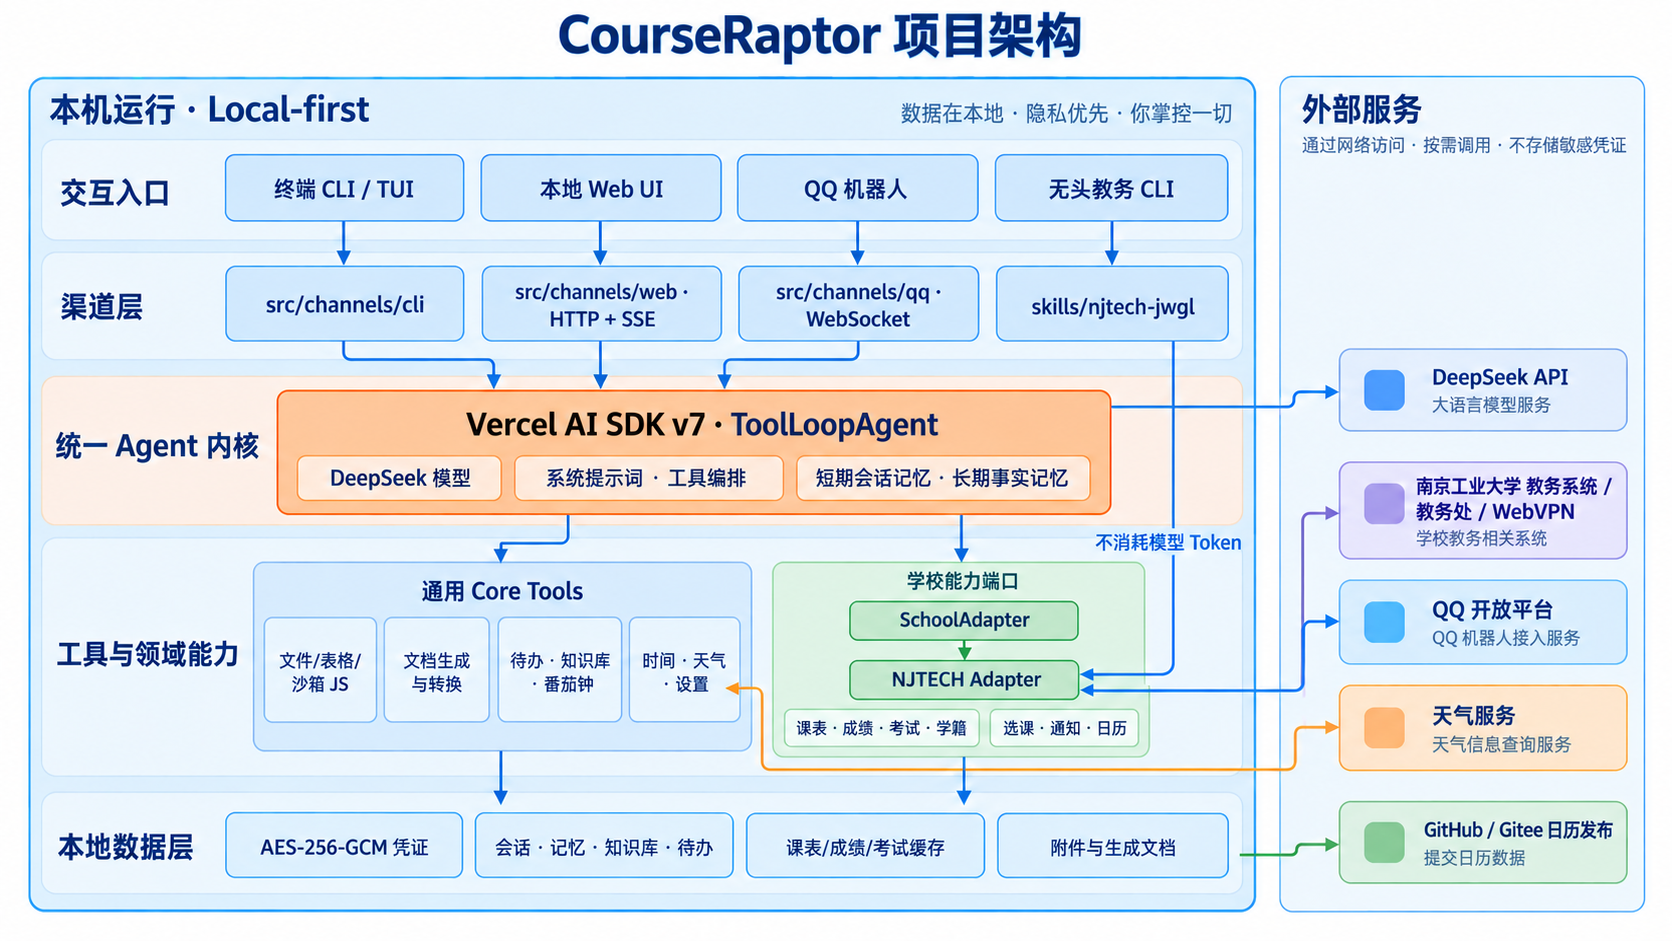
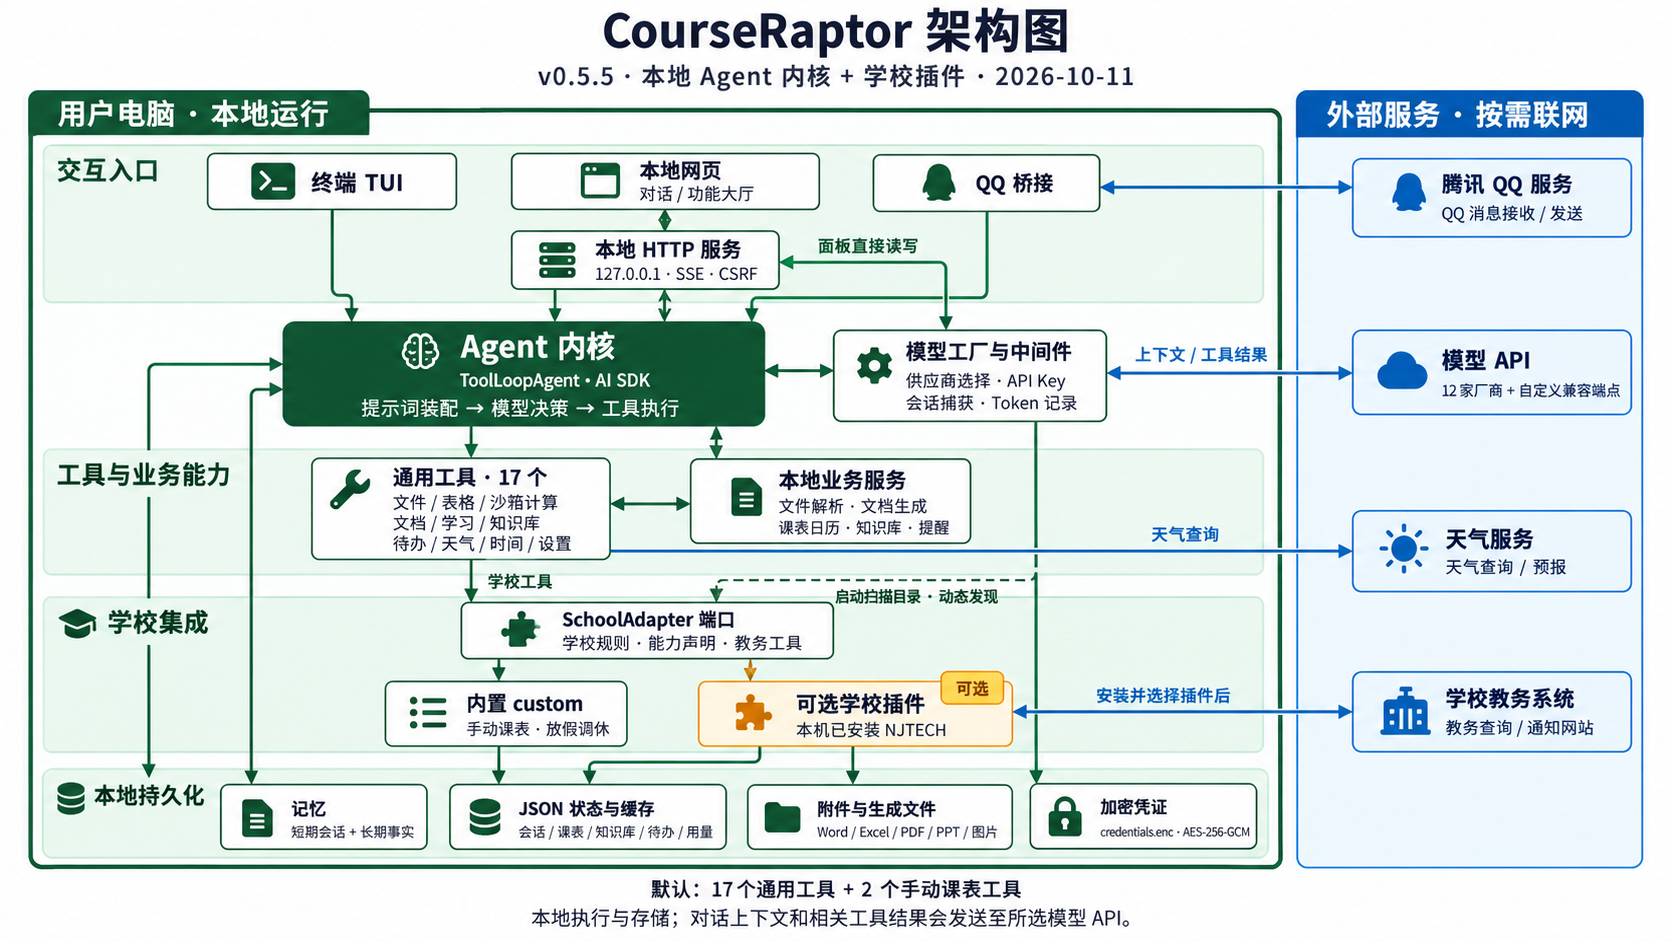
docs(readme): 架构图更换为 v0.5.5 新版——本地 Agent 内核 + 学校插件
- 白底版直接替换为 2026-10-11 新图（1672×941，与旧图同尺寸）
- 深底版由新图反相 + 色相旋转 180° 生成，保持绿/蓝主题色与黑底
- alt 同步新图口径：交互入口 / Agent 内核 / 工具与业务能力 / 学校集成 / 本地持久化，外部服务按需联网

diff --git a/README.md b/README.md
@@ -179,7 +179,7 @@ raptor             # 启动；项目内也可 npm run dev
   <!-- GitHub 按用户主题自动换图：暗色模式看深底版，浅色模式看白底版 -->
   <picture>
     <source media="(prefers-color-scheme: dark)" srcset="docs/courseraptor-architecture.png">
-    <img src="docs/courseraptor-architecture-white.png" width="880" alt="CourseRaptor 项目架构图：交互入口（终端 TUI / 本地网页 / QQ）、Agent 内核、两层记忆与知识库全部本机运行，教务系统与天气等外部服务按需访问">
+    <img src="docs/courseraptor-architecture-white.png" width="880" alt="CourseRaptor 项目架构图：交互入口（终端 TUI / 本地网页 / QQ 桥接）、Agent 内核、工具与业务能力、学校集成与本地持久化全部本机运行，模型 API、天气与教务系统等外部服务按需联网">
   </picture>
 </p>
 
